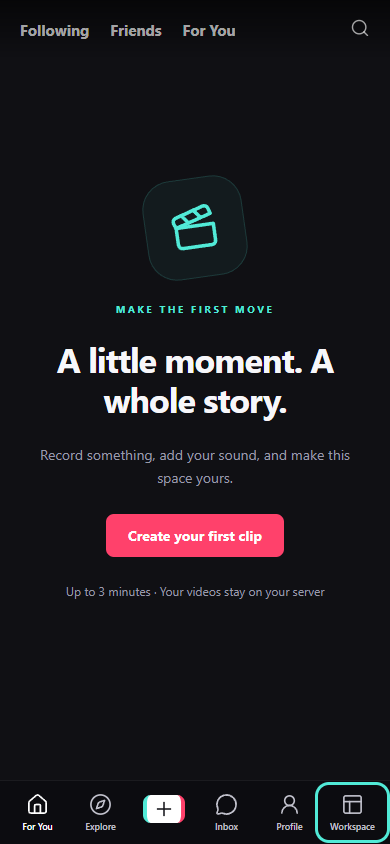
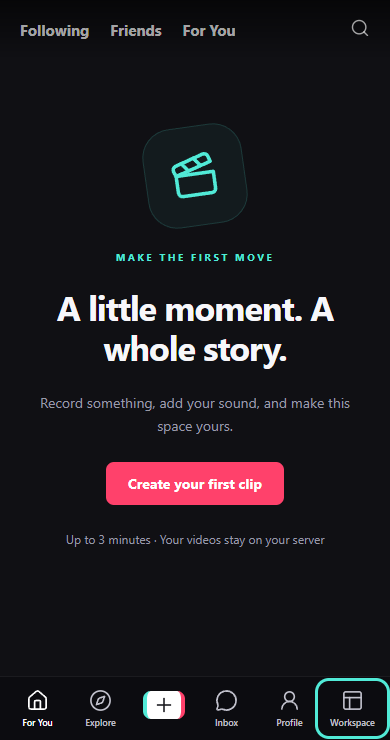
Keep the Workspace sidebar control visible in short windows [skip ci]

diff --git a/web/src/styles.css b/web/src/styles.css
@@ -7,6 +7,9 @@
 .stack--standard-page,.stack--editor-page{padding:38px;max-width:1180px;width:100%;margin:auto;gap:28px}.stack--standard-page>.row--searchbox{max-width:650px;border-radius:12px;padding:8px 14px;margin:0}.grid--clip-grid{grid-template-columns:repeat(3,minmax(0,1fr));gap:20px}.card--clip-tile{padding:0;overflow:hidden;gap:0;background:transparent;border:0;border-radius:9px}.card--clip-tile a{display:flex;flex-direction:column;gap:8px}.card--clip-tile img{width:100%;aspect-ratio:9/13;background:#23232c;border-radius:9px;object-fit:cover}.card--clip-tile .text{padding:0 2px;overflow:hidden;display:-webkit-box;-webkit-line-clamp:2;-webkit-box-orient:vertical}.row--person{padding:12px;border-bottom:1px solid var(--line)}.row--profile-heading{align-items:flex-start;gap:25px}.text--profile-avatar{background:linear-gradient(135deg,#51ead740,#ff416b50);width:110px;height:110px;min-width:110px;border-radius:50%;display:flex;align-items:center;justify-content:center;font-size:34px;font-weight:750}.row--tabs{border-bottom:1px solid var(--line);padding:18px 0;font-weight:650;gap:28px}.text--empty{padding:50px 15px;color:var(--muted);text-align:center}.stack--empty{padding:70px 15px;color:var(--muted);align-items:center;text-align:center}.row--notification{padding:16px;background:#ffffff04;border-radius:10px}.row--notification>svg{color:var(--accent)}.button--conversation{justify-content:flex-start;padding:18px}.stack--message{max-width:85%;padding:14px 18px;border-radius:15px;background:#ffffff0a;align-self:flex-start;gap:5px}.stack--message.own{align-self:flex-end;background:#ff416b20}.row--stepper{border-bottom:1px solid var(--line);padding:4px 0 22px;color:var(--muted);font-size:12px;letter-spacing:.5px}.row--stepper>.text:first-child{color:var(--cyan)}.grid--editor-grid{grid-template-columns:minmax(260px,.85fr) minmax(340px,1.15fr);gap:30px;align-items:start}.stack--preview-column{position:sticky;top:22px;gap:18px}.editor-video,.editor-placeholder{width:100%;aspect-ratio:9/16;max-height:70dvh;background:#050507;border-radius:15px;object-fit:contain}.editor-placeholder{display:flex;align-items:center;justify-content:center;font-size:18px;letter-spacing:6px;color:#777780;border:1px dashed #ffffff30;background:radial-gradient(ellipse at 30% 20%,#213433,transparent 60%),radial-gradient(ellipse at 70% 80%,#35212e,transparent 60%),#15151b}.row--clip-row{padding:8px;background:#ffffff04;border-radius:9px;gap:6px}.row--clip-row>.button:first-child{max-width:190px;overflow:hidden;text-overflow:ellipsis;white-space:nowrap;font-size:12px}.card--drop-card{background:transparent;border:1px dashed #ffffff30;padding:28px;text-align:center;align-items:center;font-size:13px;line-height:1.6;color:var(--muted)}.stack--editing-controls .card{padding:22px;gap:18px}.stack--editing-controls h2{font-size:17px}.stack--editing-controls .card>.row>svg{width:19px;color:var(--cyan)}.stack--editing-controls .button{font-size:12px}.stack--editing-controls .row{flex-wrap:wrap}.stack--editing-controls .field{min-width:95px}.card--dialog{position:fixed;max-width:580px;width:calc(100% - 32px);max-height:90dvh;overflow:auto;inset:0;margin:auto;color:inherit;background:#1b1b23;border:1px solid #ffffff25;box-shadow:0 30px 100px #0008;padding:28px;gap:22px;z-index:30}.card--dialog::backdrop{background:#000b;backdrop-filter:blur(5px)}.card--dialog>.row:first-child{position:sticky;top:-28px;background:#1b1b23;padding:12px 0;z-index:2}.camera-preview{width:100%;aspect-ratio:9/12;max-height:50dvh;object-fit:contain;background:#08080d;border-radius:12px}.stack--comment-list{min-height:150px;max-height:45dvh;overflow:auto}.row--comment{align-items:flex-start}.row--comment .stack{gap:5px}.card--login{max-width:420px;margin:10vh auto;padding:36px;gap:24px}.card--login>img{align-self:center}.card--login h1{text-align:center}
 @media(min-width:1500px){.card--video-card{width:650px}.stack--workspace{padding-right:60px}}
 @media(max-width:1100px){.stack--sidebar{width:208px;padding:22px 15px}.stack--workspace{margin-left:208px}.link--brand h2{font-size:24px}.row--feed-hint{display:none}.stack--editor-page,.stack--standard-page{padding:26px}.grid--editor-grid{grid-template-columns:minmax(210px,.8fr) minmax(300px,1.2fr);gap:20px}.stack--editing-controls .card{padding:16px}}
-@media(max-width:800px){.stack--sidebar{width:80px;padding:25px 12px;align-items:center}.link--brand h2,.stack--sidebar .link--nav .text,.stack--sidebar .row--searchbox,.stack--sidebar>.button,.stack--sidebar .text--footnote,.link--ecosystem .text{display:none}.link--brand{margin:0 0 20px}.link--nav{padding:11px}.stack--workspace{margin-left:80px}.grid--editor-grid{grid-template-columns:1fr}.stack--preview-column{position:relative;top:auto}.editor-video,.editor-placeholder{max-height:55dvh}.grid--clip-grid{gap:12px}.row--profile-heading{flex-wrap:wrap}}
+@media(max-width:800px){.stack--sidebar{width:80px;padding:25px 12px;align-items:center}.link--brand h2,.stack--sidebar .link--nav .text,.stack--sidebar .row--searchbox,.stack--sidebar-content>.button,.stack--sidebar .text--footnote,.link--ecosystem .text{display:none}.link--brand{margin:0 0 20px}.link--nav{padding:11px}.stack--workspace{margin-left:80px}.grid--editor-grid{grid-template-columns:1fr}.stack--preview-column{position:relative;top:auto}.editor-video,.editor-placeholder{max-height:55dvh}.grid--clip-grid{gap:12px}.row--profile-heading{flex-wrap:wrap}}
 @media(max-width:600px){:root{font-size:14px}.stack--sidebar{display:none}.stack--workspace{margin:0;min-height:calc(100dvh - 64px);padding-bottom:calc(64px + env(safe-area-inset-bottom))}.row--bottomnav{display:flex;position:fixed;bottom:0;left:0;right:0;height:calc(64px + env(safe-area-inset-bottom));padding:5px 6px calc(5px + env(safe-area-inset-bottom));background:#0c0c10;border-top:1px solid #ffffff10;z-index:20;justify-content:space-around;gap:0}.row--bottomnav .link--nav{display:flex;flex-direction:column;gap:4px;padding:5px 2px;font-size:9px;font-weight:500;min-height:45px;min-width:0;flex:1;background:transparent;color:#c2c2cd}.row--bottomnav .active{color:#fff}.row--bottomnav .create svg{background:#fff;color:#16161b;width:42px;height:28px;border-radius:8px;border-left:4px solid var(--cyan);border-right:4px solid var(--accent);padding:3px}.row--bottomnav .create .text{display:none}.stack--feed-scroll{height:calc(100dvh - 64px - env(safe-area-inset-bottom))}.card--video-card{height:calc(100dvh - 64px - env(safe-area-inset-bottom));min-height:calc(100dvh - 64px - env(safe-area-inset-bottom));width:100%;padding:0}.player{border-radius:0}.player video{object-fit:cover}.stack--video-actions{right:8px;bottom:39px;gap:18px;width:48px}.button--round-action svg{background:#0003;width:42px;height:42px;padding:7px;filter:drop-shadow(0 1px 3px #0005)}.button--round-action{font-size:10px}.stack--video-caption{left:14px;right:70px;bottom:22px;gap:8px}.stack--video-caption .text{font-size:12px}.row--feed-tabs{width:100%;height:60px;padding:0 20px;gap:21px}.row--feed-tabs a{font-size:15px}.sound-toggle{top:67px;right:14px;font-size:10px}.play-toggle{top:67px;left:14px;font-size:10px}.stack--empty-feed{height:calc(100dvh - 64px);padding:80px 28px}.stack--empty-feed h1{font-size:34px}.stack--standard-page,.stack--editor-page{padding:24px 16px;gap:22px}.row--page-heading h1{font-size:23px}.row--page-heading{gap:8px}.row--page-heading .text--eyebrow{font-size:8px;letter-spacing:1.5px}.row--page-heading .button{font-size:11px;padding:9px}.grid--clip-grid{gap:8px}.card--clip-tile .text{font-size:11px}.text--profile-avatar{width:70px;height:70px;min-width:70px;font-size:25px}.row--profile-heading{gap:15px}.row--profile-heading h1{font-size:24px}.row--profile-heading .row{gap:10px;font-size:11px}.row--stepper{font-size:10px;gap:8px}.card--dialog{width:100%;max-width:none;inset:auto 0 0;max-height:90dvh;margin:0;border-radius:20px 20px 0 0;padding:23px 20px calc(23px + env(safe-area-inset-bottom))}.card--dialog>.row:first-child{top:-23px}.card--login{margin:8vh 16px}.card{padding:20px}.row--notification{gap:10px}.row--notification .button{font-size:11px;padding:8px}.stack--message{font-size:13px}}
 @media(prefers-reduced-motion:reduce){*,*:before,*:after{animation:none!important;scroll-behavior:auto!important}}
+
+/* Keep the Workspace footer in view while the sidebar menu scrolls. */
+.stack--sidebar-content{flex:1;min-height:0;overflow-y:auto;overflow-x:hidden;gap:13px;width:100%}.stack--sidebar-content>.link--nav,.stack--sidebar-content>.row,.stack--sidebar-content>.button,.stack--sidebar>.link,.stack--sidebar>.text{flex-shrink:0}

diff --git a/web/tests/navigation.spec.ts b/web/tests/navigation.spec.ts
@@ -35,13 +35,13 @@ test('integrated Workspace navigation never covers phone tabs',async({page})=>{
   if(relative==='index.html')body=body.toString().replace('</body>','<script defer src="/_workspace/navigation.js"></script></body>');
   return route.fulfill({body,contentType:types[path.extname(file)]||'application/octet-stream'});
  });
- await page.setViewportSize({width:390,height:844});
+ await page.setViewportSize({width:390,height:740});
  await page.goto('http://navigation.test/clips/');
  await expect(page.getByRole('heading',{name:'A little moment. A whole story.'})).toBeVisible();
  const floating=page.locator('#one-workspace-nav').getByRole('button',{name:'Open Workspace apps'});
  const trigger=page.locator('[data-workspace-apps-trigger]:visible');
  for(const width of [320,360,390,600,768,1024]){
-  await page.setViewportSize({width,height:844});
+  await page.setViewportSize({width,height:740});
   await expect(trigger).toHaveCount(1);
   await expect(floating).toBeHidden();
   expect(await page.evaluate(()=>document.documentElement.scrollWidth<=innerWidth)).toBe(true);
@@ -61,7 +61,7 @@ test('integrated Workspace navigation never covers phone tabs',async({page})=>{
   await page.keyboard.press('Escape');
   await expect(trigger).toBeFocused();
  }
- await page.setViewportSize({width:390,height:844});
+ await page.setViewportSize({width:390,height:740});
  for(const [label,hash] of [['For You','#home'],['Explore','#explore'],['Create','#create'],['Inbox','#inbox'],['Profile','#profile']]){
   await page.locator('.row--bottomnav').getByRole('link',{name:label,exact:true}).click();
   await expect.poll(()=>new URL(page.url()).hash).toBe(hash);

diff --git a/agents/history/2026-10-20-my-clips-compacted.md b/agents/history/2026-10-20-my-clips-compacted.md
@@ -75,3 +75,8 @@ Screenshot docs/screenshots/workspace-mobile.png visually reviewed. Android2
 WebView uses updated server UI; no new native client or physical-device claim.
 Release packaging and normal backed-up local update are pending. Tooling:
 I:/Projects/tooling/clips-navigation-20261020. Preserve published2/51 artifacts.
+
+Short-height packaged check exposed an off-screen desktop Workspace footer at
+1024x740. Sidebar menu now scrolls independently, keeping its footer visible.
+The built-UI320–1024px regression passes at740px height after this correction.
+No release assets or source tags had been published for3/52 at discovery.
